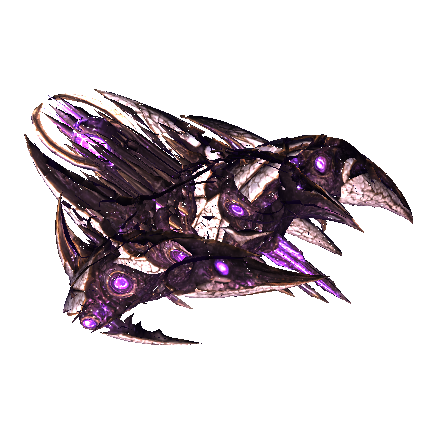
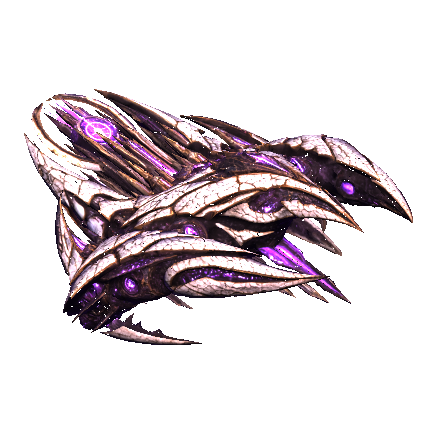
Units: fix inside-out Craigon/Silex ships and ground vehicles
process_models.py levels non-infantry hulls with a mirroring basis, so 29
unit FBXs arrived with reversed winding. Back-face culling then hid the
outer hull and close-up views showed the inner walls.

UnitImportRules now re-winds any unit mesh with negative signed volume on
import (normals and tangents follow), and Prepare refuses a prefab whose
LODs are still inside-out. Re-rendered the 28 affected ship portraits.

Changed region(s): [[0.0596, 0.2087, 0.9541, 0.805]]

diff --git a/Assets/RR/Editor/UnitAssetBuild.cs b/Assets/RR/Editor/UnitAssetBuild.cs
@@ -10,6 +10,8 @@ namespace RR.EditorTools
 {
  public sealed class UnitImportRules:AssetPostprocessor
  {
+  // Bump to re-import unit models when the rules below change.
+  public override uint GetVersion()=>2;
   void OnPreprocessModel()
   {
    if(!assetPath.StartsWith("Assets/RR/Art/Units/"))return;
@@ -20,6 +22,42 @@ namespace RR.EditorTools
    m.isReadable=false;m.importCameras=false;m.importLights=false;m.addCollider=false;m.meshCompression=ModelImporterMeshCompression.Low;
    m.animationCompression=ModelImporterAnimationCompression.KeyframeReduction;
    m.animationRotationError=.02f;m.animationPositionError=.02f;m.animationScaleError=.02f;
+  }
+  // process_models.py levels ships and ground vehicles with a mirroring basis, so their FBX shells arrive inside-out:
+  // back-face culling then drops the outer hull and the camera sees the inner walls. Re-wind any mesh whose signed volume is negative.
+  void OnPostprocessModel(GameObject root)
+  {
+   if(!assetPath.StartsWith("Assets/RR/Art/Units/"))return;
+   var meshes=root.GetComponentsInChildren<SkinnedMeshRenderer>(true).Select(r=>r.sharedMesh).Concat(root.GetComponentsInChildren<MeshFilter>(true).Select(f=>f.sharedMesh));
+   foreach(var mesh in meshes.Where(x=>x!=null).Distinct())if(InsideOut(mesh))Rewind(mesh);
+  }
+  public static double SignedVolume(Mesh mesh)
+  {
+   var v=mesh.vertices;double volume=0;
+   for(int s=0;s<mesh.subMeshCount;s++)
+   {
+    var t=mesh.GetTriangles(s);
+    for(int i=0;i<t.Length;i+=3)volume+=Vector3.Dot(v[t[i]],Vector3.Cross(v[t[i+1]],v[t[i+2]]));
+   }
+   return volume/6;
+  }
+  public static bool InsideOut(Mesh mesh)=>SignedVolume(mesh)<0;
+  static void Rewind(Mesh mesh)
+  {
+   var v=mesh.vertices;var normals=mesh.normals;double agree=0;
+   for(int s=0;s<mesh.subMeshCount;s++)
+   {
+    var t=mesh.GetTriangles(s);
+    for(int i=0;i<t.Length;i+=3)
+    {
+     (t[i+1],t[i+2])=(t[i+2],t[i+1]);
+     if(normals.Length==v.Length)agree+=Vector3.Dot(Vector3.Cross(v[t[i+1]]-v[t[i]],v[t[i+2]]-v[t[i]]),normals[t[i]]+normals[t[i+1]]+normals[t[i+2]]);
+    }
+    mesh.SetTriangles(t,s,false);
+   }
+   // Imported normals followed the old winding; point them out with the new faces.
+   if(agree<0){for(int i=0;i<normals.Length;i++)normals[i]=-normals[i];mesh.normals=normals;}
+   mesh.RecalculateTangents();
   }
   void OnPreprocessTexture()
   {
@@ -81,6 +119,11 @@ namespace RR.EditorTools
     mat.SetTexture("_NormalMap",AssetDatabase.LoadAssetAtPath<Texture2D>(dir.Replace('\\','/')+"/normal.png"));
     mat.SetTexture("_MaskMap",AssetDatabase.LoadAssetAtPath<Texture2D>(dir.Replace('\\','/')+"/orm.png"));
     var rs=go.GetComponentsInChildren<SkinnedMeshRenderer>();
+    foreach(var r in rs)
+    {
+     var baked=new Mesh();r.BakeMesh(baked);bool inverted=UnitImportRules.InsideOut(baked);UnityEngine.Object.DestroyImmediate(baked);
+     if(inverted)throw new Exception(id+": "+r.name+" is inside-out");
+    }
     var lods=new LOD[3];
     for(int i=0;i<3;i++)
     {
@@ -120,7 +163,7 @@ namespace RR.EditorTools
     foreach(var drive in new[]{visual.DriveL,visual.DriveR})if(drive!=null)drive.rotation=go.transform.rotation;
     var prefab=PrefabUtility.SaveAsPrefabAsset(go,dir.Replace('\\','/')+"/"+id+".prefab");UnityEngine.Object.DestroyImmediate(go);
     if(!id.Contains("__variant")){lib.models.RemoveAll(m=>m!=null&&m.name==id);lib.models.Add(prefab);}
-    report.Add(id+": "+string.Join("/",stats.lod_triangles)+" triangles; 6 moving clips; closed Idle/Move loops; forward +Z; "+rs.Length+" skinned LODs");count++;
+    report.Add(id+": "+string.Join("/",stats.lod_triangles)+" triangles; 6 moving clips; closed Idle/Move loops; outward shells; forward +Z; "+rs.Length+" skinned LODs");count++;
    }
    EditorUtility.SetDirty(lib);AssetDatabase.SaveAssets();
    Directory.CreateDirectory("Captures/UnitProduction");File.WriteAllLines("Captures/UnitProduction/import-validation.txt",report);
